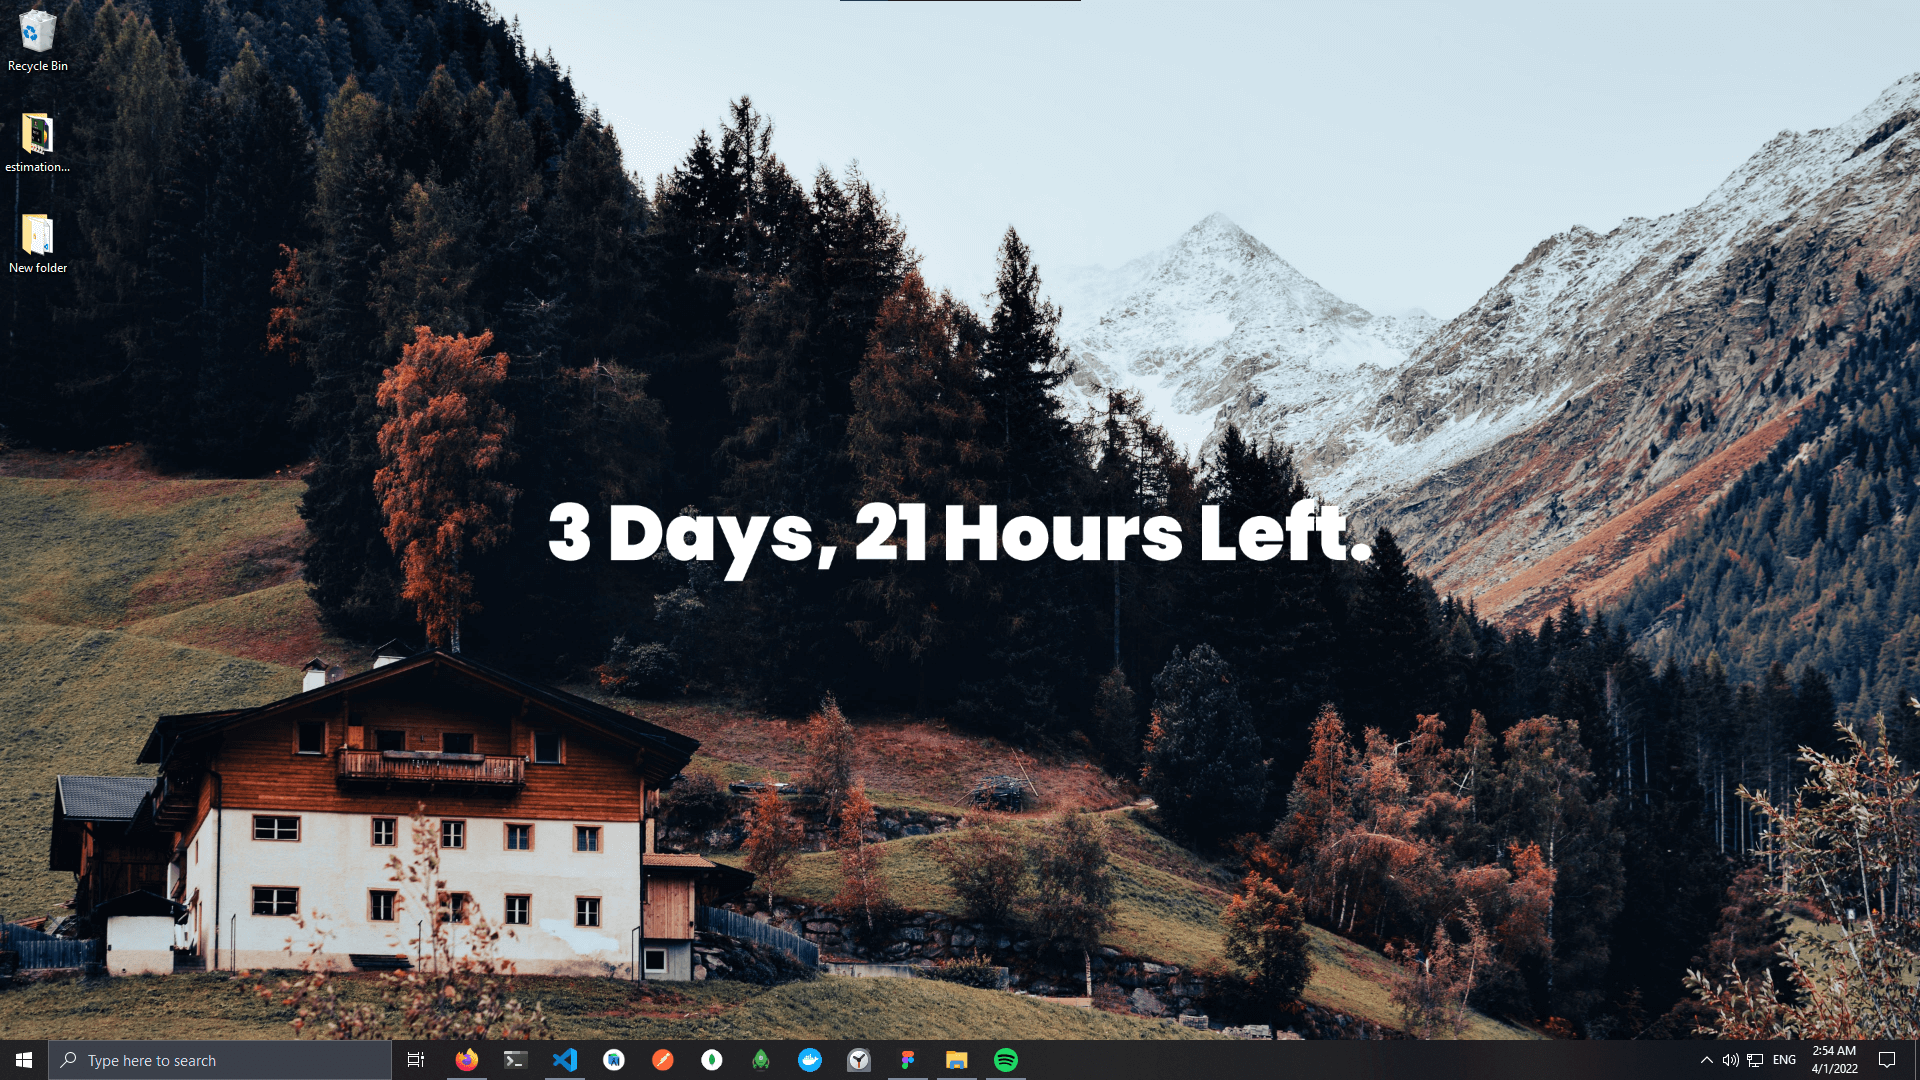
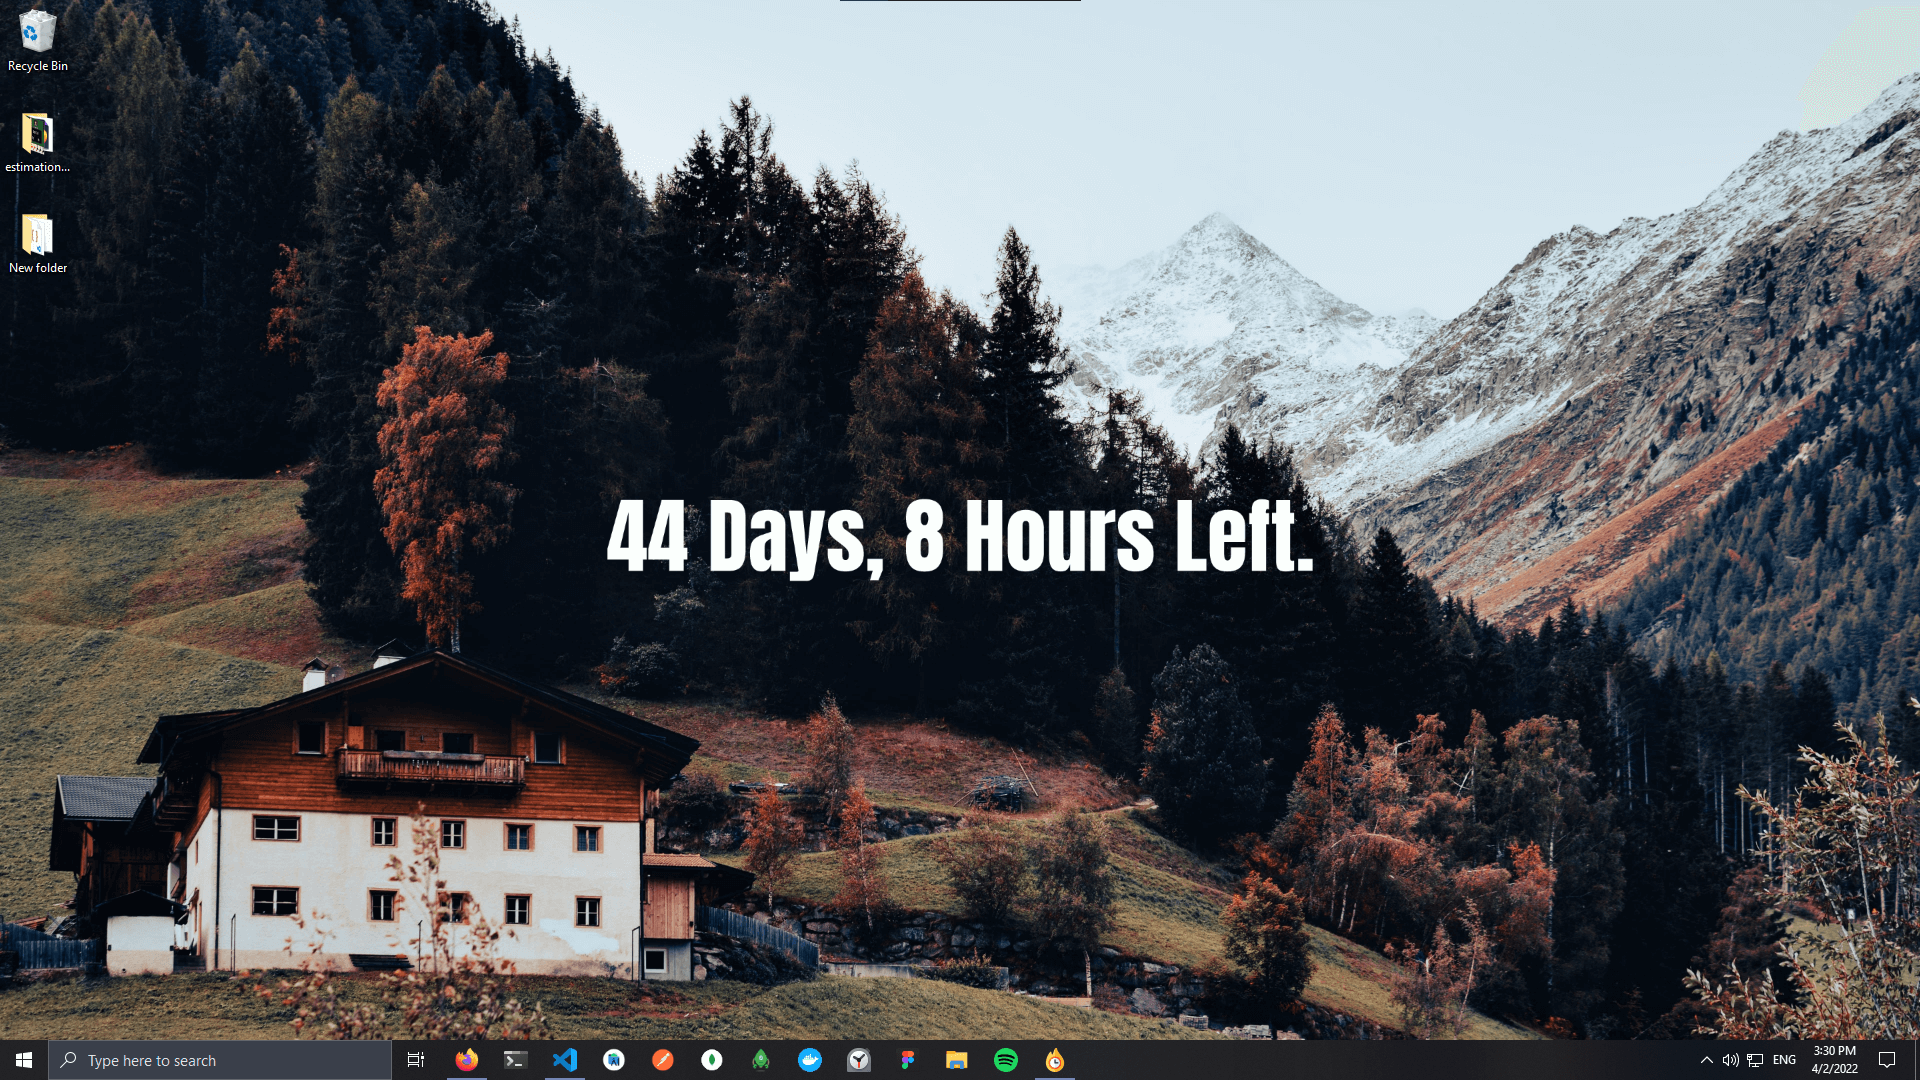
feat(gui): add custom fonts + update web gallery with the new feat

diff --git a/website/pages/Gallery.tsx b/website/pages/Gallery.tsx
@@ -9,11 +9,12 @@ import "swiper/css/navigation";
 import "swiper/css/scrollbar";
 
 let galleryImages: string[] = [
-  "screenshot2.png",
   "screenshot1.png",
+  "screenshot2.png",
   "screenshot3.png",
   "screenshot4.png",
   "screenshot5.png",
+  "screenshot6.png",
 ];
 
 const Gallery = () => {

diff --git a/gui/src/deadliner.rs b/gui/src/deadliner.rs
@@ -45,6 +45,7 @@ pub struct DeadlinerConf {
     pub font: Font,
     pub font_size: u8,
     pub font_color: [u8; 3],
+    pub custom_font_location: String,
 
     pub date: String,
     pub hours: String,
@@ -64,6 +65,7 @@ pub struct Deadliner<'a> {
 
     error_msg: String,
     invalid_bg: bool,
+    invalid_font: bool,
 
     conf: DeadlinerConf,
 }
@@ -86,6 +88,7 @@ pub enum Font {
     PoppinsMedium,
     PoppinsRegular,
     PoppinsLight,
+    ChooseFromDisk,
 }
 
 #[derive(Debug, PartialEq, Clone, Copy, EnumIter, Serialize, Deserialize)]
@@ -320,6 +323,38 @@ impl<'a> App for Deadliner<'a> {
 
                 ui.add_space(PADDING);
 
+                if self.conf.font == Font::ChooseFromDisk {
+                    ui.horizontal(|ui| {
+                        if ui.button("Open font…").clicked() {
+                            if let Some(path) = rfd::FileDialog::new().pick_file() {
+                                let location = path.display().to_string();
+                                let file_name = get_file_name_from_path(&location);
+                                let supported_file_ext = ["ttf", "otf"];
+                                let file_ext =
+                                    file_name.split(".").collect::<Vec<&str>>().pop().unwrap();
+
+                                if supported_file_ext.contains(&file_ext) {
+                                    self.invalid_font = false;
+                                    self.conf.custom_font_location = location;
+                                } else {
+                                    self.invalid_font = true;
+                                }
+                            }
+                        }
+
+                        if self.invalid_font {
+                            ui.colored_label(Color32::from_rgb(255, 48, 48), "Not a font");
+                        } else if !self.conf.custom_font_location.is_empty() {
+                            ui.colored_label(
+                                Color32::from_rgba_unmultiplied(254, 216, 67, 200),
+                                get_file_name_from_path(&self.conf.custom_font_location),
+                            );
+                        }
+                    });
+
+                    ui.add_space(PADDING);
+                }
+
                 ui.horizontal(|ui| {
                     ui.label("Font Size:");
                     ui.add(egui::Slider::new(&mut self.conf.font_size, 5..=255));
@@ -417,6 +452,7 @@ impl<'a> Deadliner<'a> {
             textures: HashMap::new(),
             error_msg: String::new(),
             invalid_bg: false,
+            invalid_font: false,
             conf: DeadlinerConf {
                 screen_dimensions: ScreenDimensions {
                     width: screen_width,
@@ -425,6 +461,7 @@ impl<'a> Deadliner<'a> {
                 background: BackgroundOptions::Solid,
                 bg_color: [0, 0, 0],
                 bg_location: String::new(),
+                custom_font_location: String::new(),
                 bg_url: String::new(),
                 font: Font::PoppinsBlack,
                 date: String::new(),

diff --git a/gui/src/update_wallpaper.rs b/gui/src/update_wallpaper.rs
@@ -1,8 +1,8 @@
 use std::fs;
 
 use crate::{
-    download_image, get_cache_dir, new_path, unwrap_or_return, BackgroundOptions, SanitizedConf,
-    ScreenDimensions,
+    download_image, get_cache_dir, new_path, unwrap_or_return, BackgroundOptions, Font,
+    SanitizedConf, ScreenDimensions,
 };
 use chrono::{Local, NaiveDateTime};
 use image::{imageops::FilterType, DynamicImage, Rgb, RgbImage};
@@ -109,7 +109,11 @@ pub fn update_wallpaper(conf: &SanitizedConf, test_text_dimensions: bool) -> Res
 }
 
 pub fn generate_wallpaper(deadline_str: &str, conf: &SanitizedConf) -> Result<String, String> {
-    let font_date_bytes = fs::read(new_path(&format!("assets/fonts/{:?}.ttf", conf.font))).unwrap();
+    let font_date_bytes = if conf.font == Font::ChooseFromDisk {
+        fs::read(&conf.custom_font_location).unwrap()
+    } else {
+        fs::read(new_path(&format!("assets/fonts/{:?}.ttf", conf.font))).unwrap()
+    };
 
     let renderer = TextRenderer::try_new_with_ttf_font_data(font_date_bytes).unwrap();
 

diff --git a/gui/src/lib.rs b/gui/src/lib.rs
@@ -41,6 +41,7 @@ pub struct SanitizedConf {
     pub font: Font,
     pub font_size: u8,
     pub font_color: String,
+    pub custom_font_location: String,
 
     pub deadline_str: String,
 }
@@ -69,6 +70,7 @@ fn save_inputs(conf: &DeadlinerConf) -> Result<(), String> {
         show_weeks: conf.show_weeks,
         show_days: conf.show_days,
         show_hours: conf.show_hours,
+        custom_font_location: conf.custom_font_location.clone(),
 
         // Just a placeholder till we convert RGB to HEX
         font_color: String::new(),

diff --git a/gui/src/main.rs b/gui/src/main.rs
@@ -32,7 +32,7 @@ fn main() {
 
     // Set the initial window position at the very bottom right
     let app_width = 400.;
-    let app_height = 630.;
+    let app_height = 655.;
     let taskbar_approx_height = 65.;
     let padding = 15.;
 
